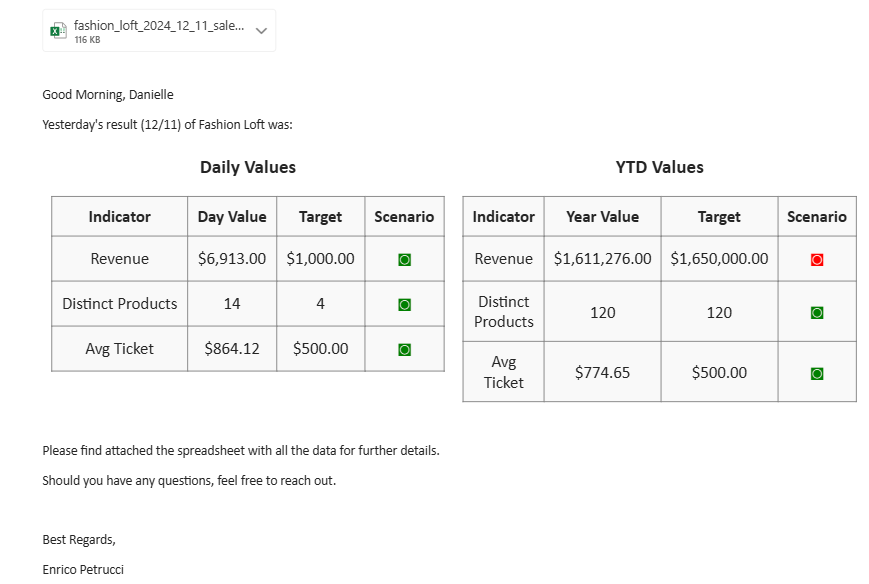
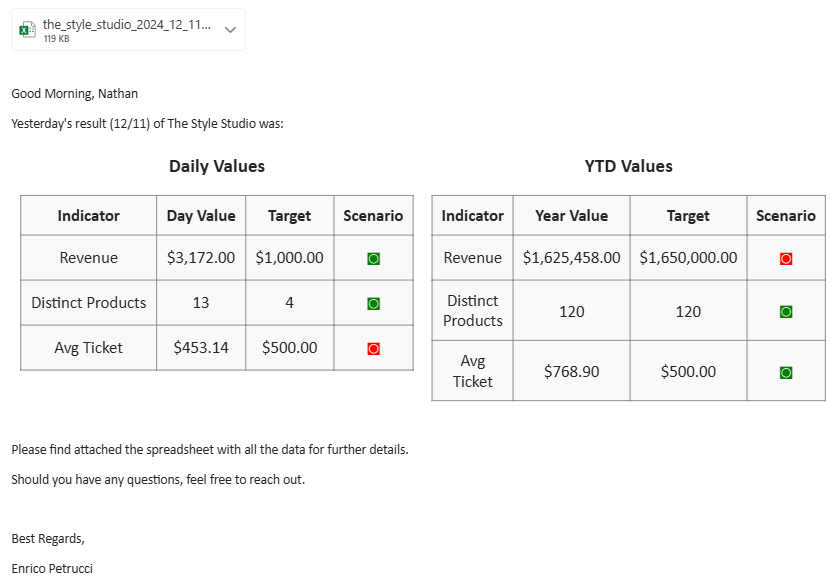
Add example email screenshot

diff --git a/README.md b/README.md
@@ -1,3 +1,6 @@
+![Python](https://img.shields.io/badge/python-3.13-blue)
+![License](https://img.shields.io/badge/license-MIT-green)
+
 # Store Performance Automation Project
 This project automates daily performance reporting for a fictional retail clothing chain with 25 stores, providing concise and actionable insights for store managers and executives. By streamlining the reporting process, it enhances decision-making and ensures data-driven management. The automation reduces manual reporting time, improves operational efficiency, and provides precise performance tracking against predefined goals.
 
@@ -70,6 +73,10 @@ This project automates daily performance reporting for a fictional retail clothi
      - Rankings for daily and YTD revenue.
      - Attachments (`daily_ranking_YYYY_MM_DD.xlsx`, `ytd_ranking_YYYY_MM_DD.xlsx`).
 
+### Example
+Below is an example of the email generated by the script:
+
+![Sample Email](./assets/email_screenshot.png)
 ---
 
 ## Getting Started
